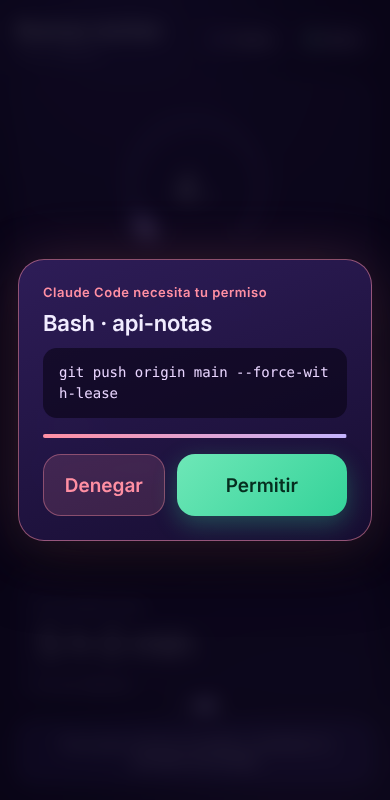
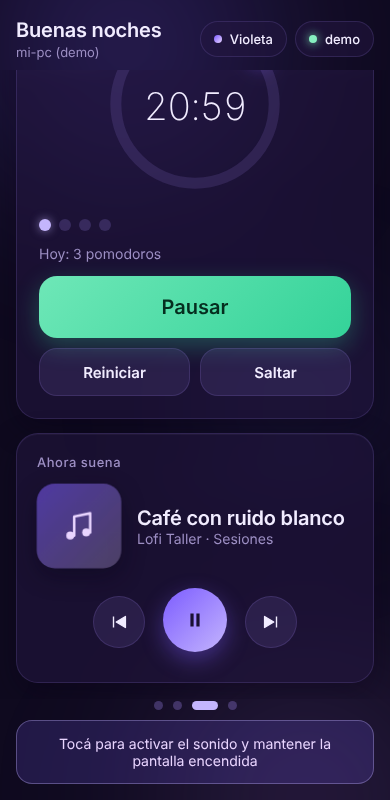
docs: README con las cuatro páginas, configuración y capturas nuevas
Claude-Session: https://claude.ai/code/session_013VCRWZDjTeFo15XF7NitQy

diff --git a/README.md b/README.md
@@ -3,16 +3,18 @@
 [![CI](https://github.com/mmodugno/deskpanel/actions/workflows/ci.yml/badge.svg)](https://github.com/mmodugno/deskpanel/actions/workflows/ci.yml)
 ![license](https://img.shields.io/badge/license-MIT-blue)
 
-Convertí un celular o una tablet vieja en un panel de escritorio para tu PC: reloj, clima, CPU y memoria con gráficos en vivo, y el estado de tus sesiones de **Claude Code**. Cuando una te pide permiso, el panel muestra el comando y lo aprobás o denegás con un toque; también avisa con sonido y vibración cuando termina.
+Convertí un celular o una tablet vieja en un panel de escritorio para tu PC. Cuatro páginas que se deslizan: **Inicio** (reloj, clima, próximo evento y tus sesiones de **Claude Code**), **Sistema** (CPU y memoria con gráficos en vivo), **Foco** (pomodoro y música sonando) y **GitHub** (CI y PRs de tus repos). Cuando Claude Code pide permiso, el panel muestra el comando y lo aprobás o denegás con un toque.
 Todo por la red local o por cable USB, **sin nube y sin cuentas**.
 
 <p>
-  <img src="docs/inicio.png" alt="Página de inicio en una tablet" width="49%">
-  <img src="docs/sistema.png" alt="Página de sistema con gráficos en vivo" width="49%">
+  <img src="docs/inicio.png" alt="Inicio: reloj, clima, próximo evento y sesiones de Claude Code" width="32%">
+  <img src="docs/sistema.png" alt="Sistema: CPU, memoria y gráficos en vivo" width="32%">
+  <img src="docs/foco.png" alt="Foco: pomodoro y música" width="32%">
 </p>
 <p>
-  <img src="docs/permiso.png" alt="Pedido de permiso de Claude Code con Permitir y Denegar" width="49%">
-  <img src="docs/celular.png" alt="Panel en un celular" width="19%">
+  <img src="docs/github.png" alt="GitHub: CI y PRs por repo" width="32%">
+  <img src="docs/permiso.png" alt="Permiso de Claude Code con Permitir y Denegar" width="32%">
+  <img src="docs/celular.png" alt="En un celular" width="15%">
 </p>
 <sub>Capturas con datos de prueba.</sub>
 
@@ -52,13 +54,24 @@ adb reverse tcp:4747 tcp:4747
 
 En este modo el agente escucha solo en `127.0.0.1` y el celular entra por el cable (necesita `adb` y depuración USB). Pensado para compus donde no querés exponer nada a la red.
 
-### Clima (opcional)
+### Configuración (opcional)
 
-Creá `config.local.json` (está en `.gitignore`, tu ubicación no se sube):
+Todo lo personal va en `config.local.json`, que está en `.gitignore` (tu ubicación, tu calendario y tus repos no se suben):
 
 ```json
-{ "weather": { "latitude": 0.0, "longitude": 0.0, "name": "Mi ciudad" } }
+{
+  "weather": { "latitude": 0.0, "longitude": 0.0, "name": "Mi ciudad" },
+  "github": ["tu-usuario/un-repo", "tu-usuario/otro-repo"],
+  "calendarUrl": "https://calendar.google.com/calendar/ical/.../basic.ics",
+  "focus": { "workMin": 25, "breakMin": 5, "longBreakMin": 15, "cycles": 4 }
+}
 ```
+
+- **Clima:** [Open-Meteo](https://open-meteo.com), sin cuenta.
+- **GitHub:** estado del último CI y PRs abiertos por repo con la API pública (60 pedidos por hora). Para repos privados definí la variable de entorno `GITHUB_TOKEN`.
+- **Calendario:** la dirección secreta en formato iCal de tu calendario (en Google Calendar: Configuración → tu calendario → "Dirección secreta en formato iCal"). Entiende horas UTC, con zona horaria y de día completo, y repeticiones diarias y semanales simples (no `EXDATE` ni mensuales/anuales). Tratá esa dirección como una contraseña.
+- **Foco:** las duraciones del pomodoro. El temporizador vive en el agente, así que el celular y la tablet muestran lo mismo.
+- **Música:** no necesita configuración. En Windows usa los controles multimedia del sistema (PowerShell), en macOS Spotify o Música (AppleScript) y en Linux `playerctl`. **Experimental:** está probado con salidas simuladas, no en equipos reales de cada sistema. Solo consulta mientras haya un panel conectado.
 
 ### Claude Code
 
@@ -70,15 +83,15 @@ Mirá [docs/claude-code.md](docs/claude-code.md) para conectar los hooks (estado
 npm test
 ```
 
-38 tests con `node --test` (token, métricas, sesiones, clima con fetch simulado, servidor HTTP, SSE y funciones del panel). El CI corre en Ubuntu y Windows con Node 20 y 22.
+61 tests con `node --test` (token, métricas, sesiones, permisos, pomodoro con reloj falso, GitHub y calendario con datos simulados, reproductor, servidor HTTP, SSE y funciones del panel). El CI corre en Ubuntu, Windows y macOS con Node 20 y 22.
 
 ## Estado y pendientes
 
 - [x] Agente, panel, alertas, modo USB, gráficos en vivo, 4 temas con fondo animado, páginas deslizables, aprobar permisos desde el panel, modo demo, tests y CI
-- [ ] Widget de música sonando en Windows
-- [ ] Widget de cuotas de uso
-- [ ] Probado en Windows real (hoy el desarrollo corrió en Linux; el CI cubre Windows)
-- [ ] Soporte macOS verificado
+- [x] Pomodoro, GitHub, calendario y música sonando
+- [ ] Probado en Windows y macOS reales (el desarrollo corrió en Linux; el CI cubre los tres sistemas, pero no el reproductor ni el cable USB)
+- [ ] Carátula del disco en el reproductor
+- [ ] Widget de cuotas de uso de Claude (depende de un endpoint no documentado; no se incluye a propósito)
 
 ## Créditos
 
